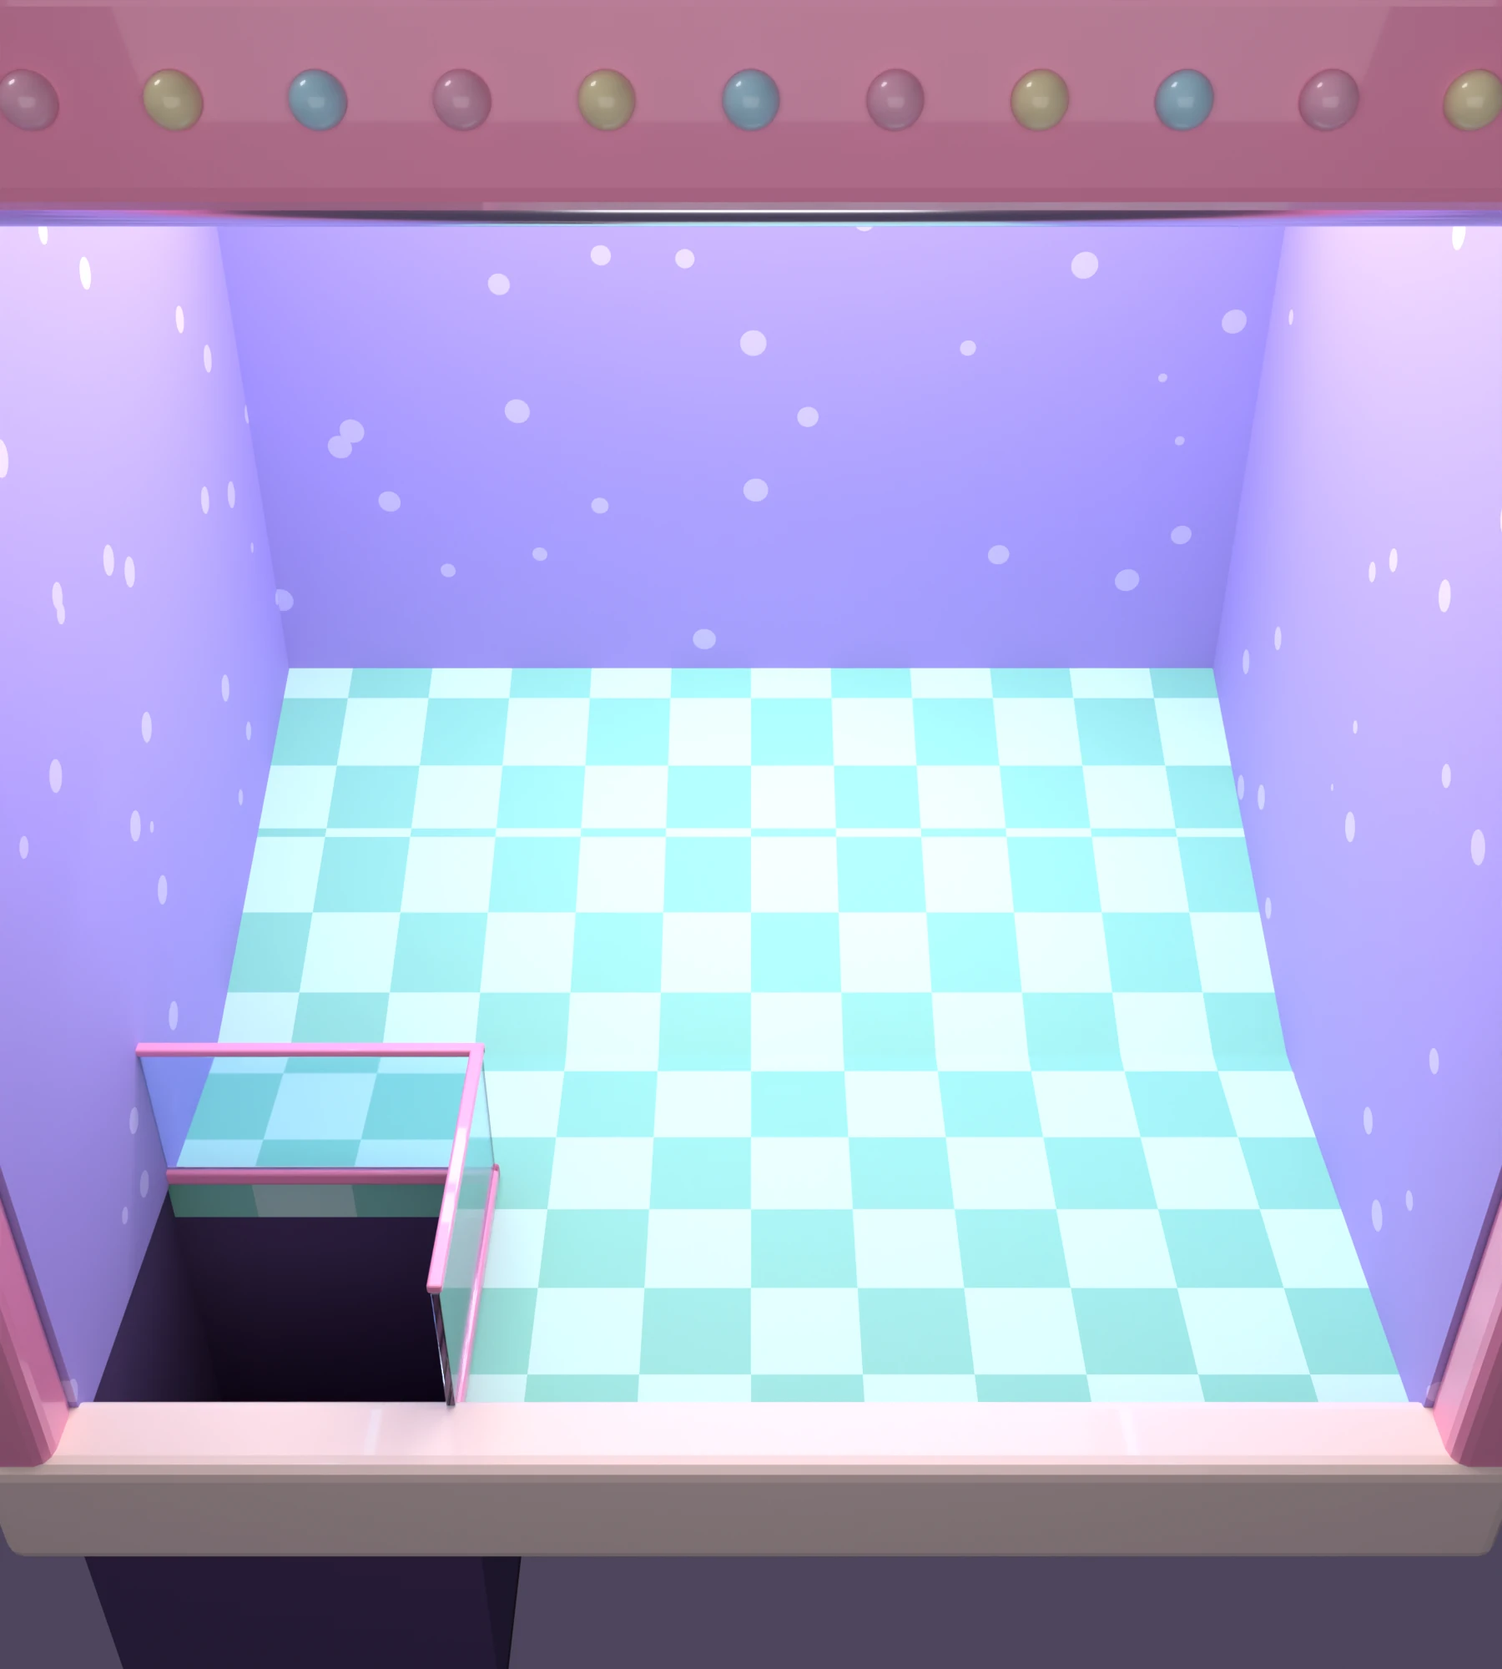
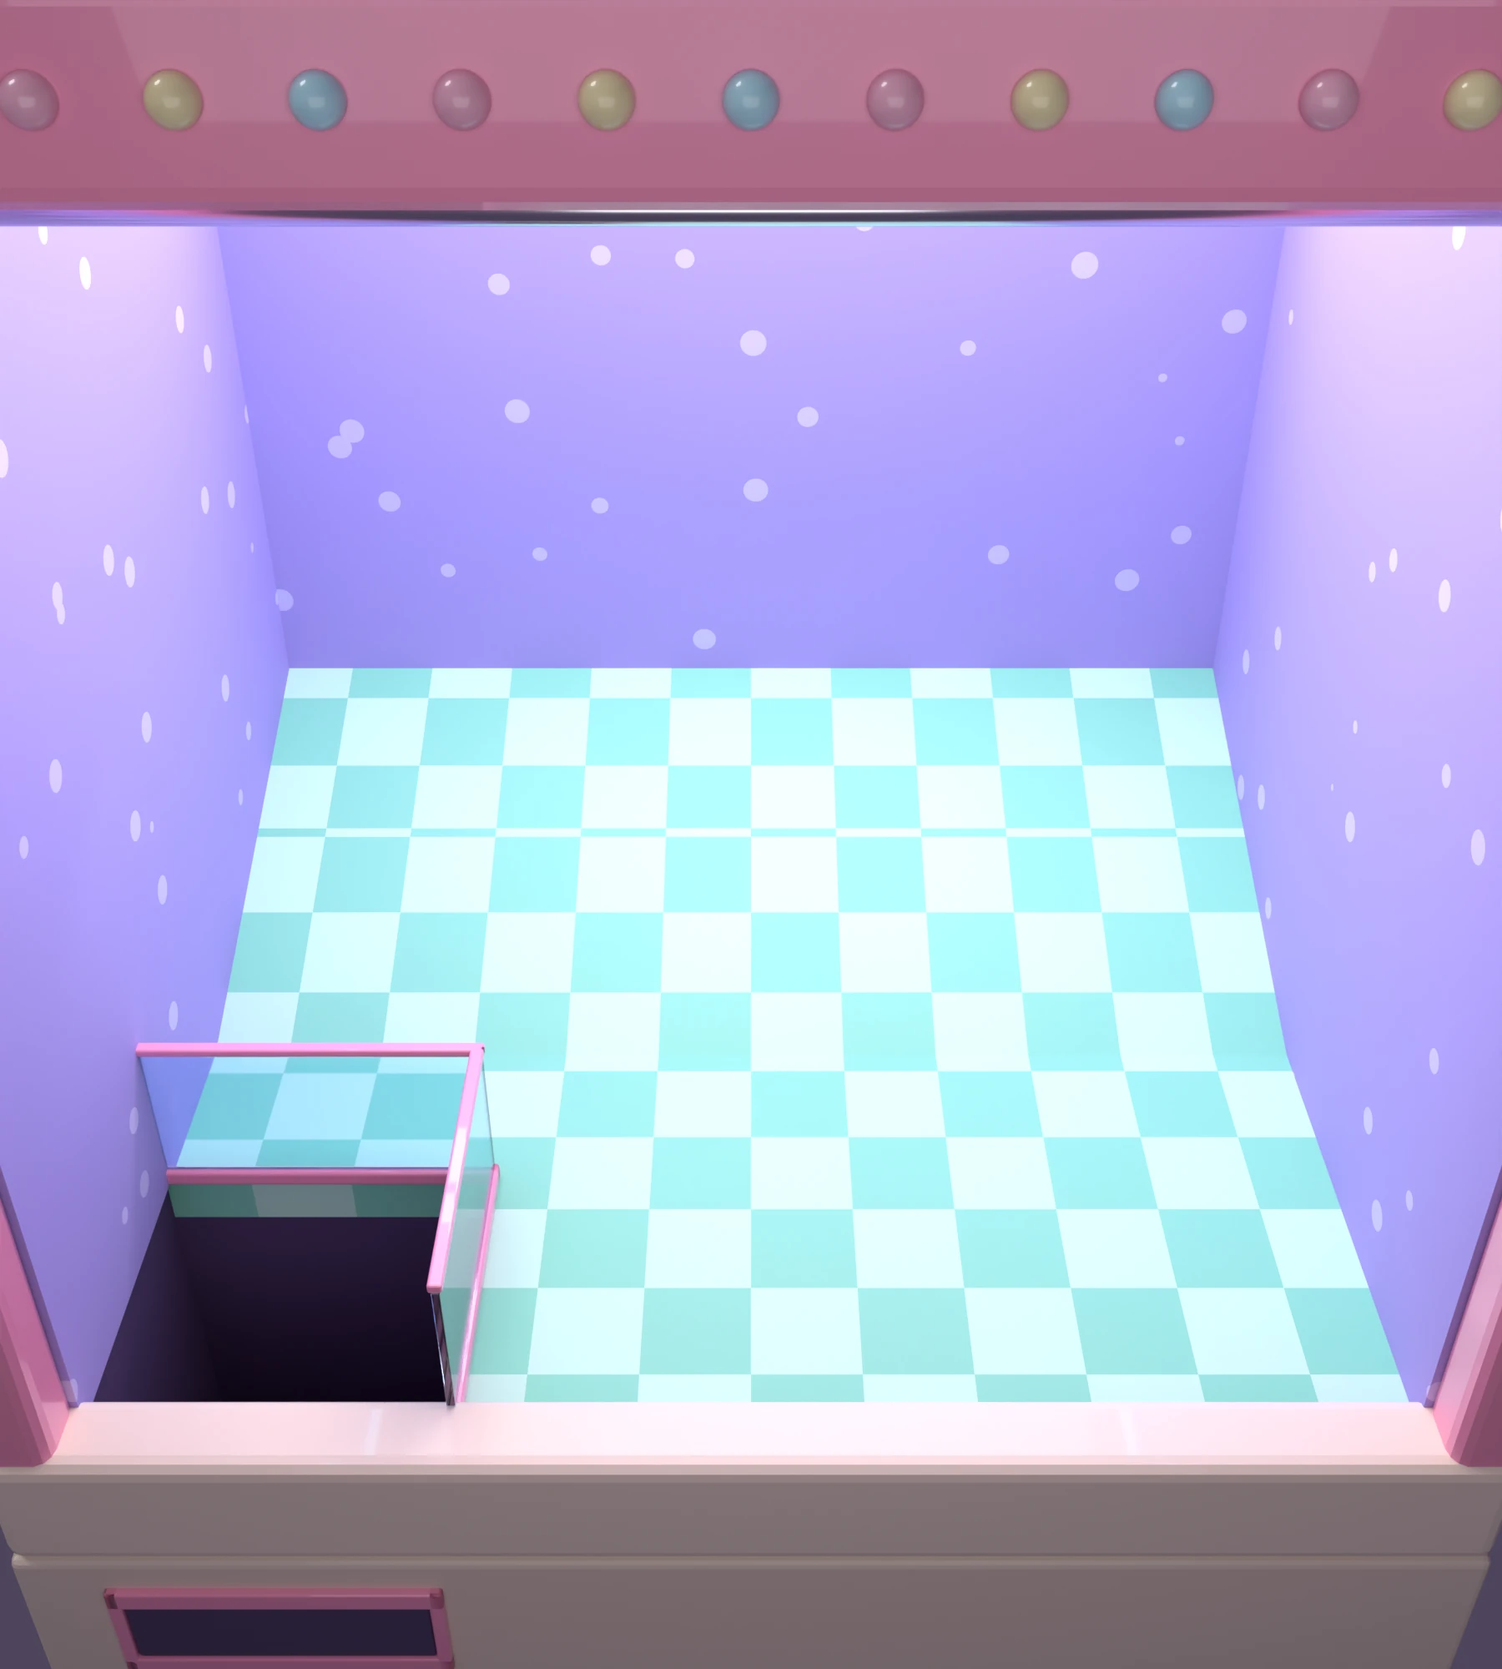
ぽちゃもんUFO：2回目の指摘を反映（操作盤の点灯コマに輪郭の透明情報＝透明な所へ足して黒い四角が出るのを止める・影は近い方の開閉だけで濃さ6割・持った子の範囲と奥行きで前後を判定・周りの子は時間でゆっくり沈んで落ち着く・筐体の下に全幅の胴体と景品の取り出し口・配置B（操作盤＝筐体の絵と同じ高さ・絵は下端揃え）・右下の子を画面の半分の高さに・案内の文を短く・溜め込みを v6 に）

Changed region(s): [[0.0, 0.93, 0.9956, 1.0]]

diff --git a/main/pochamon-ufo/game.js b/main/pochamon-ufo/game.js
@@ -24,7 +24,7 @@ const qs = new URLSearchParams(location.search);
 if (qs.get('p')) settings.luckP = Math.max(0, Math.min(1, parseFloat(qs.get('p'))));
 if (qs.get('slot')) settings.luckSlot = qs.get('slot');
 // 配置の比較用（確認の時だけ）：?edge=0.018&gap=0.012&conh=0.9
-for (const [q, key] of [['edge', 'edge'], ['gap', 'gap'], ['conh', 'conH']]) if (qs.get(q) != null && !isNaN(parseFloat(qs.get(q)))) CFG_LAYOUT_OVERRIDE[key] = parseFloat(qs.get(q));
+for (const [q, key] of [['edge', 'edge'], ['gap', 'gap']]) if (qs.get(q) != null && !isNaN(parseFloat(qs.get(q)))) CFG_LAYOUT_OVERRIDE[key] = parseFloat(qs.get(q));
 const todayKey = () => { const d = new Date(); return d.getFullYear() + '-' + String(d.getMonth() + 1).padStart(2, '0') + '-' + String(d.getDate()).padStart(2, '0'); };
 
 // ---------------- 動きの定数（メートル・秒） ----------------
@@ -47,10 +47,11 @@ const CFG = {
   coinSize: 0.17,       // 手に持ったコインの直径（画面の高さに対する割合。iPad 768px で約130px＝実物の500円玉に近い）
   coinAtSlit: 0.85,     // 投入口のそばでのコインの直径（投入口の縦幅に対する割合＝遠近で小さくなって口に入る）
   holdSec: 0.75,        // 上げ切った後に止まっている時間（本物のUFOキャッチャーの「間」）
-  layout: { edge: 0.018, gap: 0.012, conH: 0.90 },   // 画面の端の余白・操作盤と筐体の隙間（幅に対する割合）・操作盤の高さ（筐体の床から梁までに対する割合）
+  layout: { edge: 0.018, gap: 0.012 },   // 画面の端の余白・操作盤と筐体の隙間（幅に対する割合）。操作盤の高さ＝筐体の絵の上端から画面の下端まで（配置 B・2026-10-29 本人が選択）
   bulbStep: 0.22,       // 電球の追いかけ点灯の1コマ（秒）
   bgmVol: 0.5,          // BGM の音量（効果音に対する割合）
   slump: 0.55,          // 持ち上げた子の上に乗っていた子が穴へ沈む深さ（持ち上げた子の高さに対する割合）
+  shadowAlpha: 0.6,     // UFO の影の濃さ（Blender の影そのままだと絵の上で穴に見える）
 };
 Object.assign(CFG.layout, CFG_LAYOUT_OVERRIDE);
 
@@ -297,20 +298,15 @@ function resize() {
   view.dpr = dpr; view.cw = cw; view.ch = ch;
   if (!scene) return;
   const W = scene.image.width, H = scene.image.height, LY = CFG.layout;
-  // 筐体はまんなか。両脇の操作盤は筐体と同じ床の線に足を置き、高さは筐体（床から梁まで）の conH 倍。
-  // 横に入り切らない時（4:3 の iPad）は筐体を少し縮めて、端の余白と隙間を保つ（三つが詰まって見えない）
+  // 筐体はまんなか・絵の下端を画面の下端に揃える（胴体は画面の下で切れる）。両脇の操作盤は筐体の絵と同じ高さ（配置 B・2026-10-29 本人が選択）＝天井を絵の上端、足の底を画面の下端に。
+  // 横に入り切らない時（4:3 の iPad）は筐体を少し縮めて、端の余白と隙間を保つ
   const edge = cw * LY.edge, gap = cw * LY.gap;
-  let conW = 0;   // 操作盤の幅（筐体の k=1 のときの px）
-  if (con.data) {
-    const r = con.data.sprites.console_L.rect, L = con.data.L;
-    const bodyPx = (L.foot_bottom || L.bottom_edge) - L.top_edge;   // 操作盤の本体（天井から足の底まで・frame px）
-    con.kPerK = (cab.floorV || H) * LY.conH / bodyPx;                // 筐体の k=1 のとき、操作盤の frame px → 画面 px
-    conW = r[2] * con.kPerK;
-  }
-  view.k = Math.min(ch / H, (cw - 2 * edge - 2 * gap) / (W + 2 * conW));
+  const bodyPx = con.data ? ((con.data.L.foot_bottom || con.data.L.bottom_edge) - con.data.L.top_edge) : 0;   // 操作盤の本体（天井から足の底まで・frame px）
+  const conWperK = (con.data && bodyPx) ? con.data.sprites.console_L.rect[2] * H / bodyPx : 0;   // 筐体の k=1 のときの操作盤の幅
+  view.k = Math.min(ch / H, (cw - 2 * edge - 2 * gap) / (W + 2 * conWperK));
   const imgW = W * view.k, imgH = H * view.k;
   view.ox = (cw - imgW) / 2;
-  view.oy = (ch - imgH) / 2;
+  view.oy = ch - imgH;   // 下端に揃える（4:3 で出る上の空きは部屋の色のまま＝梁の平らな天面に見える）
   document.documentElement.style.setProperty('--machine-left', view.ox + 'px');
   document.documentElement.style.setProperty('--machine-width', imgW + 'px');
   layoutConsoles();
@@ -327,10 +323,10 @@ function layoutConsoles() {
   if (!con.data || !scene) return;
   const cw = view.cw, LY = CFG.layout;
   const rect = con.data.sprites.console_L.rect, L = con.data.L;   // 左右は同じ大きさ
-  const k = (con.kPerK || 0.3) * view.k, w = rect[2] * k, h = rect[3] * k;
+  const bodyPx = (L.foot_bottom || L.bottom_edge) - L.top_edge;
+  const k = scene.image.height * view.k / bodyPx, w = rect[2] * k, h = rect[3] * k;   // 天井の上端〜足の底＝筐体の絵の高さ
   const gap = cw * LY.gap;
-  const footLine = view.oy + (cab.floorV || scene.image.height) * view.k;   // 筐体の床の線（画面 px）
-  const y = footLine - ((L.foot_bottom || L.bottom_edge) - rect[1]) * k;    // 足の底を床の線に合わせる
+  const y = view.oy - (L.top_edge - rect[1]) * k;   // 天井の上端を筐体の絵の上端に
   con.L = { x: view.ox - gap - w, y, w, h, k, rect };
   con.R = { x: view.ox + scene.image.width * view.k + gap, y, w, h, k, rect: con.data.sprites.console_R.rect };
   // ボタンの押す場所（HTML）をキャップの上に重ねる。文字の大きさはキャップの半径
@@ -584,9 +580,10 @@ const faceUI = {
     if (!this.data || !con.R) return;
     const [fw, fh] = this.data.size;
     const b = con.data.R.btnY, c = conPt('R', b.c), bottom = c.y + b.r_bezel * con.R.k;   // 「たて」のボタンにはかぶせない
-    const h = Math.round(Math.max(80, Math.min(view.ch * 0.34, view.ch - bottom - 8)));
+    const h = Math.round(Math.max(80, view.ch * 0.5));
     const w = Math.round(h * fw / fh);
-    this.rect = { x: view.cw - w, y: view.ch - h, w, h };   // 右下の角に、縁で切れる絵をそのまま。整数に丸める（端数だと隣のコマの縁がにじむ）
+    const y = Math.round(Math.max(view.ch - h * 0.84, bottom + 8));   // 体の下は画面の外へ（縁で切れる絵）。「たて」のボタンにはかぶせない
+    this.rect = { x: view.cw - w, y, w, h };   // 右下の角。整数に丸める（端数だと隣のコマの縁がにじむ）
   },
   play(name, from) {
     const c = this.data && this.data.clips[name]; if (!c) return;
@@ -746,7 +743,9 @@ function pileReact(src, drop, depth) {
     const dir = Math.sign(src.u - a.u) || 1;   // 穴の側へ傾く（画面の回転）
     const nx = src.data.center[0] - a.data.center[0], ny = src.data.center[1] - a.data.center[1], nl = Math.hypot(nx, ny) || 1;
     a.target = { dx: base.dx + nx / nl * 0.02 * lean, dy: base.dy + ny / nl * 0.02 * lean, dz: base.dz - amount, rot: clamp(base.rot + dir * 0.28 * lean, -0.5, 0.5) };
-    a.state = 'settle'; a.vz = 0; a.settleDelay = 0.10 + 0.10 * depth;
+    a.settleFrom = { dx: a.dx, dy: a.dy, dz: a.dz, rot: a.rot }; a.settleT = 0;
+    a.settleDur = 0.45 + Math.random() * 0.25; a.settleDelay = 0.04 + Math.random() * 0.16 + 0.08 * depth;   // 子ごとに少しずらす＝一斉に動かない
+    a.state = 'settle'; a.vz = 0;
     if (depth === 0 && drop == null) (src.reactors || (src.reactors = [])).push(a);
     if (s) pileReact(a, amount, depth + 1);
   }
@@ -780,7 +779,7 @@ function setPhase(p) {
       game.lastInputAt = performance.now(); break;
     case 'moveX':
       input.pressedX = false; input.x = false; setButtons(true, false);
-      guide('ひかっている「→よこ」を おしているあいだ よこに うごくよ'); break;
+      guide('「→よこ」を おしているあいだ よこに うごくよ'); break;
     case 'moveY':
       input.pressedY = false; input.y = false; setButtons(false, true);
       guide('つぎは「↑たて」！ はなすと アームが おりるよ'); break;
@@ -802,8 +801,8 @@ function setPhase(p) {
       claw.armTarget = game.target ? game.target.armHold : CFG.armClosed;
       audio.bump(); setTimeout(() => audio.clack(), 260);
       // 爪が山に当たる：真下の子は押されて沈み、まわりも少し揺れる
-      if (game.target) nudgeToy(game.target, 0.45);
-      pressAround(claw.x, claw.y, 0.14, 0.22);
+      if (game.target) nudgeToy(game.target, 0.3);
+      pressAround(claw.x, claw.y, 0.14, 0.15);
       game.outcome = decideOutcome(game.tryIndex);
       game.slipAt = CFG.slipMin + Math.random() * (CFG.slipMax - CFG.slipMin);
       break;
@@ -882,7 +881,7 @@ function updateToys(dt) {
     if (t.state === 'rest' || t.state === 'settle') {
       // 上下の弾み（押された・落ちてきた子に押された）：減衰するばね
       if (t.bounce || t.bv) {
-        t.bv += (-t.bounce * 180 - t.bv * 12) * dt; t.bounce += t.bv * dt;
+        t.bv += (-t.bounce * 90 - t.bv * 9) * dt; t.bounce += t.bv * dt;   // ゆっくりめのばね（1.5Hz）＝押されてふわっと戻る
         if (Math.abs(t.bounce) < 0.0004 && Math.abs(t.bv) < 0.004) { t.bounce = 0; t.bv = 0; }
       }
     }
@@ -912,17 +911,15 @@ function updateToys(dt) {
         else { t.vz = 0; t.dx = t.restDx || 0; t.dy = t.restDy || 0; t.rot = t.landRot || 0; t.state = 'rest'; t.shadowA = 1; restPose(t); if (!t.landedMsg) { t.landedMsg = true; showMsg('おしい…！', 'miss', 1300); audio.miss(); } }
       }
     } else if (t.state === 'settle') {
-      // 穴へ沈む（落ちる・弾む）／押し戻される（上へはそっと）
-      if (t.settleDelay > 0) t.settleDelay -= dt;
-      else {
-        const tg = t.target;
-        if (t.dz > tg.dz || t.vz > 0) {   // 落ちる（弾んで上がっている間も）
-          t.vz -= CFG.g * 0.7 * dt; t.dz += t.vz * dt;
-          if (t.dz <= tg.dz && t.vz <= 0) { t.dz = tg.dz; t.vz = t.vz < -0.35 ? -t.vz * 0.28 : 0; }
-        } else { t.dz = approach(t.dz, tg.dz, 0.25 * dt); t.vz = 0; }
-        t.rot = approach(t.rot, tg.rot, 2.2 * dt); t.dx = approach(t.dx, tg.dx, 0.12 * dt); t.dy = approach(t.dy, tg.dy, 0.12 * dt);
-        if (t.dz === tg.dz && t.vz === 0 && t.rot === tg.rot && t.dx === tg.dx && t.dy === tg.dy) { t.state = 'rest'; restPose(t); }
+      // 穴へ沈む：ゆっくり始まり、少し行き過ぎて戻って落ち着く（ぬいぐるみが崩れて収まる感じ）。時間で動かすのでカクつかない
+      t.settleT += dt;
+      const u = clamp((t.settleT - t.settleDelay) / t.settleDur, 0, 1);
+      if (u > 0) {
+        const c1 = 1.2, e = 1 + (c1 + 1) * Math.pow(u - 1, 3) + c1 * Math.pow(u - 1, 2);   // ease-out-back（行き過ぎ 1.2）
+        const f = t.settleFrom, tg = t.target;
+        t.dx = lerp(f.dx, tg.dx, e); t.dy = lerp(f.dy, tg.dy, e); t.dz = lerp(f.dz, tg.dz, e); t.rot = lerp(f.rot, tg.rot, e);
       }
+      if (u >= 1) { const tg = t.target; t.dx = tg.dx; t.dy = tg.dy; t.dz = tg.dz; t.rot = tg.rot; t.state = 'rest'; restPose(t); }
     } else if (t.state === 'chute') {
       t.vz -= CFG.g * dt; t.dz += t.vz * dt;
       t.rot += t.rotV * dt; t.rotV *= 0.98;
@@ -1192,30 +1189,29 @@ function pileTopUnder(x, y) {
 function drawClawShadow(p, zs) {
   const h = Math.max(0, claw.z - zs);
   const ch = scene.machine.chute;
-  if (!top_onChute() && clawShadows.length) {
-    // Blender で床に落とした本物の影（同じ照明）。高さは両どなりの絵を混ぜ、開き具合は開いた絵と閉じた絵を混ぜる。一番高い絵より上はさらに薄く
-    const hs = []; for (const s of clawShadows) if (!hs.includes(s.h)) hs.push(s.h);
+  const usable = clawShadows.filter((s) => s.h >= 0.04);   // 2cm の絵は触れる寸前の真っ黒な影＝絵の上では穴に見えるので使わない
+  if (!top_onChute() && usable.length) {
+    // Blender で床に落とした本物の影（同じ照明）。高さは両どなりの絵を混ぜる。開き具合は近い方の絵だけ（混ぜると爪の塊が4つになる）。一番高い絵より上はさらに薄く
+    const hs = []; for (const s of usable) if (!hs.includes(s.h)) hs.push(s.h);
     hs.sort((a, b) => a - b);
     const hc = clamp(h, hs[0], hs[hs.length - 1]);
     let i = 0; while (i < hs.length - 2 && hc > hs[i + 1]) i++;
     const t = hs.length > 1 ? (hc - hs[i]) / (hs[i + 1] - hs[i]) : 0;
     const fade = h > hs[hs.length - 1] ? clamp(1 - (h - hs[hs.length - 1]) / 0.3, 0, 1) : 1;
     if (fade <= 0) return;
-    const ang = clamp((claw.arm + 18) / 34, 0, 1);
+    const wantOpen = claw.arm < -1;
     const parts = [];
     for (const [hh, hw] of (hs.length > 1 ? [[hs[i], 1 - t], [hs[i + 1], t]] : [[hs[0], 1]])) {
       if (hw < 0.02) continue;
-      const open = clawShadows.find((s) => s.h === hh && s.angle < 0) || clawShadows.find((s) => s.h === hh);
-      const closed = clawShadows.find((s) => s.h === hh && s.angle > 0) || open;
-      if (open && 1 - ang > 0.02) parts.push([open, hw * (1 - ang)]);
-      if (closed && ang > 0.02) parts.push([closed, hw * ang]);
+      const spr = usable.find((s) => s.h === hh && (wantOpen ? s.angle < 0 : s.angle > 0)) || usable.find((s) => s.h === hh);
+      if (spr) parts.push([spr, hw]);
     }
     parts.sort((a, b) => b[1] - a[1]);
     let acc = 0;
     ctx.save();
     for (const [spr, w] of parts) {
       if (!spr.img) continue;
-      const alpha = (acc === 0 ? 1 : w / (acc + w)) * fade;
+      const alpha = (acc === 0 ? 1 : w / (acc + w)) * fade * CFG.shadowAlpha;
       acc += w;
       const s = spr.depth / p.d;
       ctx.globalAlpha = alpha;
@@ -1262,8 +1258,15 @@ function draw() {
   ctx.globalAlpha = 1;
   const rest = restingToys();
   const cb = clawBox();
-  const padDepth = project(claw.x, claw.y, claw.z + CFG.padDz).d;
-  const iClaw = insertionIndex(rest, padDepth, cb.box);
+  // UFO の層（ケーブル・UFO・持った子）をどの子の後に描くか：UFO の箱だけでなく、ぶら下がった子の範囲と奥行き（手前にある方）も見る
+  let layerDepth = project(claw.x, claw.y, claw.z + CFG.padDz).d, layerBox = cb.box;
+  if (claw.held) {
+    const t = claw.held, h = t.hold, p1 = project(h.x + t.dx, h.y + t.dy, h.z + t.dz), s = t.holdUV.d / p1.d, r = t.data.sprite.rect;
+    const x0 = p1.u - (t.holdUV.u - r[0]) * s, y0 = p1.v - (t.holdUV.v - r[1]) * s, w = r[2] * s, hh = r[3] * s, mg = Math.max(w, hh) * 0.15;
+    layerBox = [Math.min(layerBox[0], x0 - mg), Math.min(layerBox[1], y0 - mg), Math.max(layerBox[2], x0 + w + mg), Math.max(layerBox[3], y0 + hh + mg)];
+    layerDepth = Math.min(layerDepth, project(t.data.center[0] + t.dx, t.data.center[1] + t.dy, t.data.center[2] + t.dz).d);
+  }
+  const iClaw = insertionIndex(rest, layerDepth, layerBox);
   const top = pileTopUnder(claw.x, claw.y);
   const zs = top.z;
   const sp = project(claw.x, claw.y, zs);

diff --git a/main/pochamon-ufo/index.html b/main/pochamon-ufo/index.html
@@ -15,7 +15,7 @@
   </script>
   <link rel="manifest" href="manifest.json">
   <link rel="apple-touch-icon" href="assets/icon-180.png">
-  <link rel="stylesheet" href="style.css?v=5">
+  <link rel="stylesheet" href="style.css?v=6">
   <title>ぽちゃもん UFOキャッチャー</title>
 </head>
 <body class="phase-loading">
@@ -95,6 +95,6 @@
     <div id="coin" class="hidden" aria-label="ぽちゃもんコイン"><img id="coinImg" alt="" draggable="false"></div>
   </div>
 
-  <script src="game.js?v=5"></script>
+  <script src="game.js?v=6"></script>
 </body>
 </html>

diff --git a/main/pochamon-ufo/sw.js b/main/pochamon-ufo/sw.js
@@ -1,13 +1,13 @@
 // ぽちゃもん UFOキャッチャー Service Worker
 // 会場のオフライン対策：本体と素材を全部 precache する。
 // index.html / game.js / style.css / 素材を変えたら CACHE_NAME を bump すること（cache-first のため）。
-const CACHE_NAME = 'pochamon-ufo-v5';
+const CACHE_NAME = 'pochamon-ufo-v6';
 
 const CORE = [
   './',
   './index.html',
-  './style.css?v=5',
-  './game.js?v=5',
+  './style.css?v=6',
+  './game.js?v=6',
   './assets/bgm.mp3',
   './manifest.json',
   './assets/scene.json',

diff --git a/tools/pochamon-ufo/flow.js b/tools/pochamon-ufo/flow.js
@@ -77,7 +77,7 @@ fs.mkdirSync(outDir, { recursive: true });
     }
     await sleep(20);
   }
-  await waitPhase('between'); await waitPhase('moveX'); await sleep(200);
+  await waitPhase('moveX'); await sleep(200);   // 'between' は 1.1 秒で過ぎるので待たない
   // 2回目：取る（奥へ）
   await page.evaluate(() => window.__ufo.press('x', true)); await sleep(1400); await page.evaluate(() => window.__ufo.press('x', false));
   await waitPhase('moveY'); await sleep(200);

diff --git a/tools/pochamon-ufo/sync_console.py b/tools/pochamon-ufo/sync_console.py
@@ -51,9 +51,11 @@ for key, spr in C["sprites"].items():
         if sx1 > sx0 and sy1 > sy0:
             sub[sy0 - (y - by):sy1 - (y - by), sx0 - (x - bx):sx1 - (x - bx)] = base[side][sy0:sy1, sx0:sx1]
         diff = np.clip(lit[:, :, :3] - sub[:, :, :3] - 3, 0, 255).astype(np.uint8)
+        # 透明情報＝操作盤の輪郭（天井の上の空きに足すと canvas では不透明な黒になるので、操作盤の外は透明にしておく）
+        rgba = np.dstack([diff, sub[:, :, 3].astype(np.uint8)])
         total_in += os.path.getsize(os.path.join(src, spr["file"]))
         out = key + ".webp"
-        Image.fromarray(diff).save(os.path.join(DEST, out), "WEBP", quality=88, method=6)
+        Image.fromarray(rgba, "RGBA").save(os.path.join(DEST, out), "WEBP", quality=88, method=6)
         total_out += os.path.getsize(os.path.join(DEST, out))
         spr["file"] = out; spr["blend"] = "lighter"
         continue
